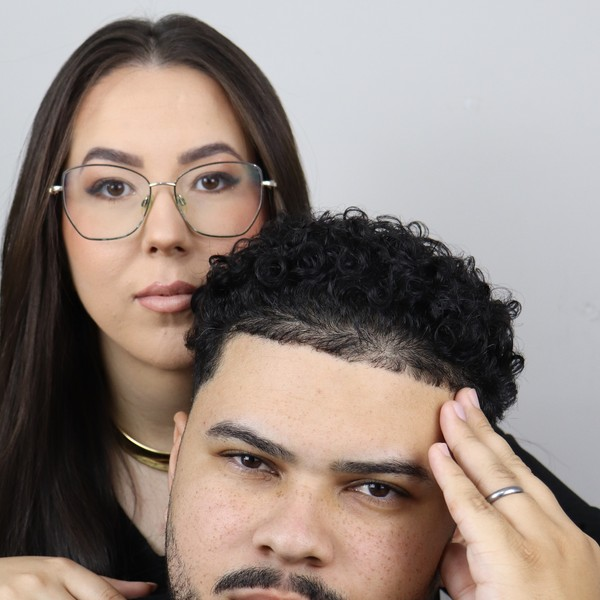
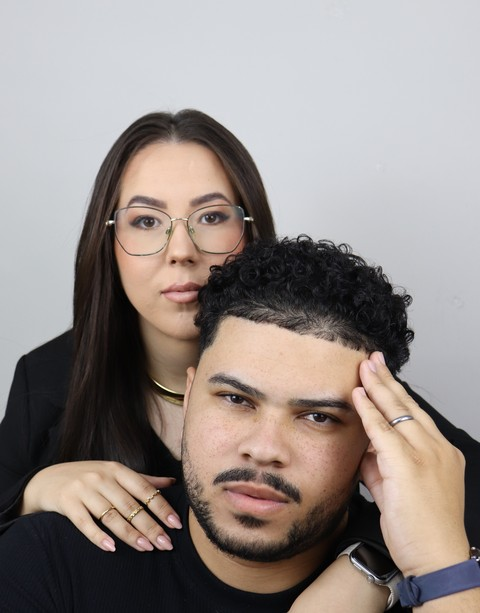
Ajusta foto, vídeo e rodapé da página Link na Bio do Nail Master
Recorte da foto revisado (retrato, mostrando as duas alianças do
casal) com cantos arredondados e brilho suave em vez de máscara
circular. Fallback em JS para garantir autoplay do vídeo em
navegadores embutidos (Instagram). Logo do rodapé trocado pelo
ícone oficial da Criativamente.

diff --git a/nailmaster/index.html b/nailmaster/index.html
@@ -29,10 +29,25 @@
 <main class="nm-card">
 
   <div class="nm-cover">
-    <video autoplay muted loop playsinline poster="/nailmaster/img/capa-poster.jpg">
+    <video id="capaVideo" autoplay muted loop playsinline webkit-playsinline="true" preload="auto" poster="/nailmaster/img/capa-poster.jpg">
       <source src="/nailmaster/img/capa.mp4" type="video/mp4">
     </video>
   </div>
+  <script>
+    (function () {
+      var v = document.getElementById('capaVideo');
+      if (!v) return;
+      v.muted = true;
+      var tryPlay = function () { v.play().catch(function () {}); };
+      tryPlay();
+      document.addEventListener('visibilitychange', function () {
+        if (!document.hidden) tryPlay();
+      });
+      ['touchstart', 'click'].forEach(function (evt) {
+        document.addEventListener(evt, tryPlay, { once: true, passive: true });
+      });
+    })();
+  </script>
 
   <img class="nm-avatar" src="/nailmaster/img/perfil.jpg" alt="Nail Master">
   <h1 class="nm-name">CASAL NAIL MASTER<span>.</span></h1>

diff --git a/nailmaster/style.css b/nailmaster/style.css
@@ -135,12 +135,12 @@ a { text-decoration: none; color: inherit; }
 }
 
 .nm-avatar {
-  width: 76px;
-  height: 76px;
-  border-radius: 50%;
+  width: 124px;
+  height: 158px;
   object-fit: cover;
-  margin-bottom: 16px;
-  box-shadow: 0 0 0 3px var(--black), 0 0 0 4px var(--accent), 0 12px 30px rgba(0,0,0,.5);
+  margin-bottom: 14px;
+  border-radius: 20px;
+  box-shadow: 0 0 0 1px rgba(245,245,242,.06), 0 0 34px 10px rgba(230,166,201,.35), 0 14px 28px rgba(0,0,0,.45);
 }
 
 .nm-name {
@@ -296,7 +296,7 @@ a { text-decoration: none; color: inherit; }
 
 @media (min-width: 640px) {
   .nm-card { max-width: 440px; }
-  .nm-avatar { width: 84px; height: 84px; }
+  .nm-avatar { width: 132px; height: 168px; }
   .nm-name { font-size: 27px; }
   .nm-link { padding: 17px 20px; }
 }
